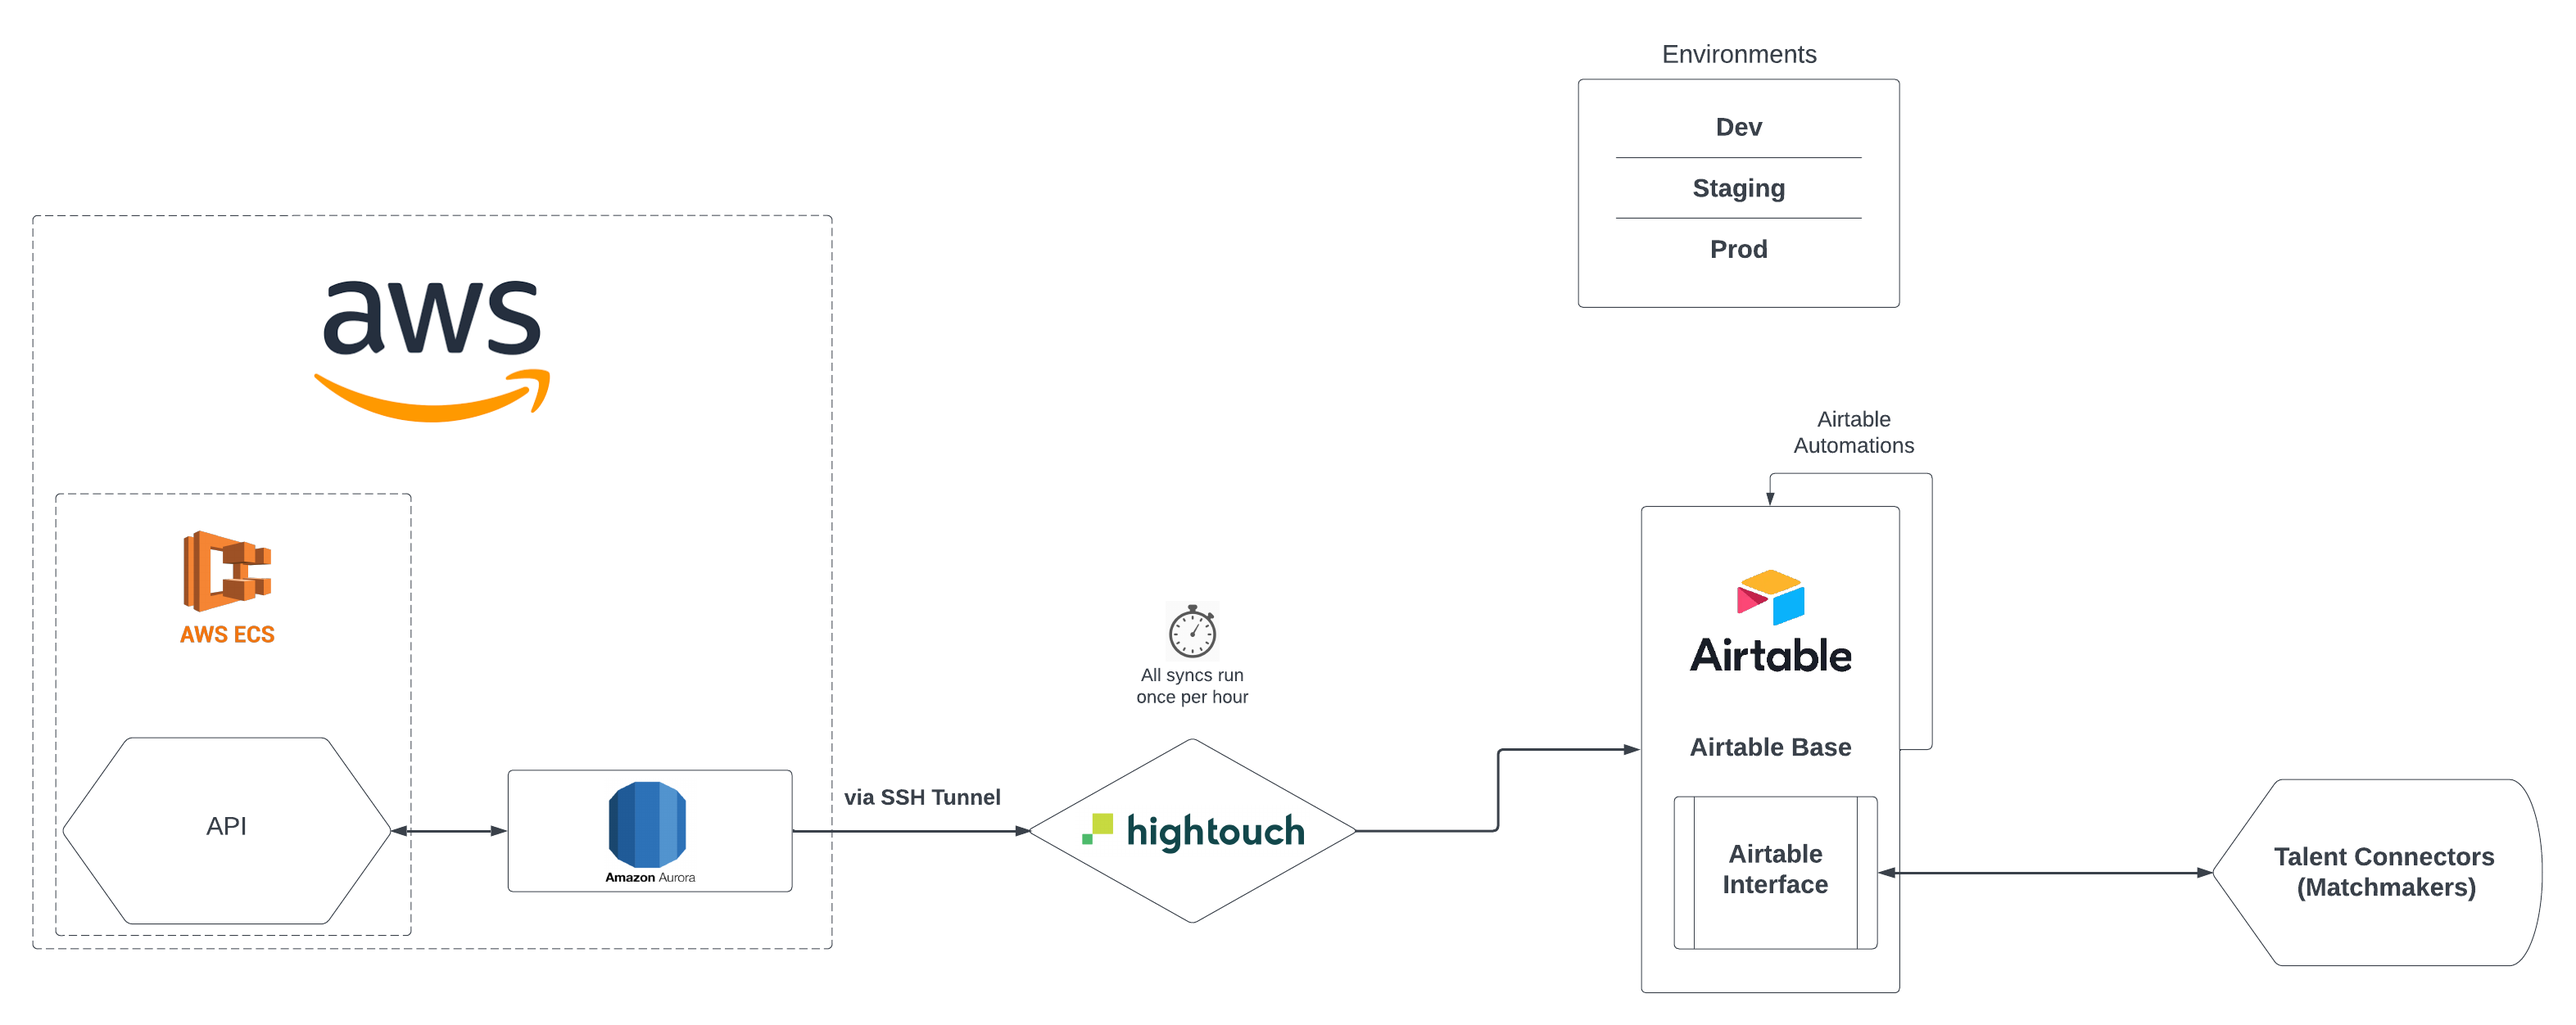
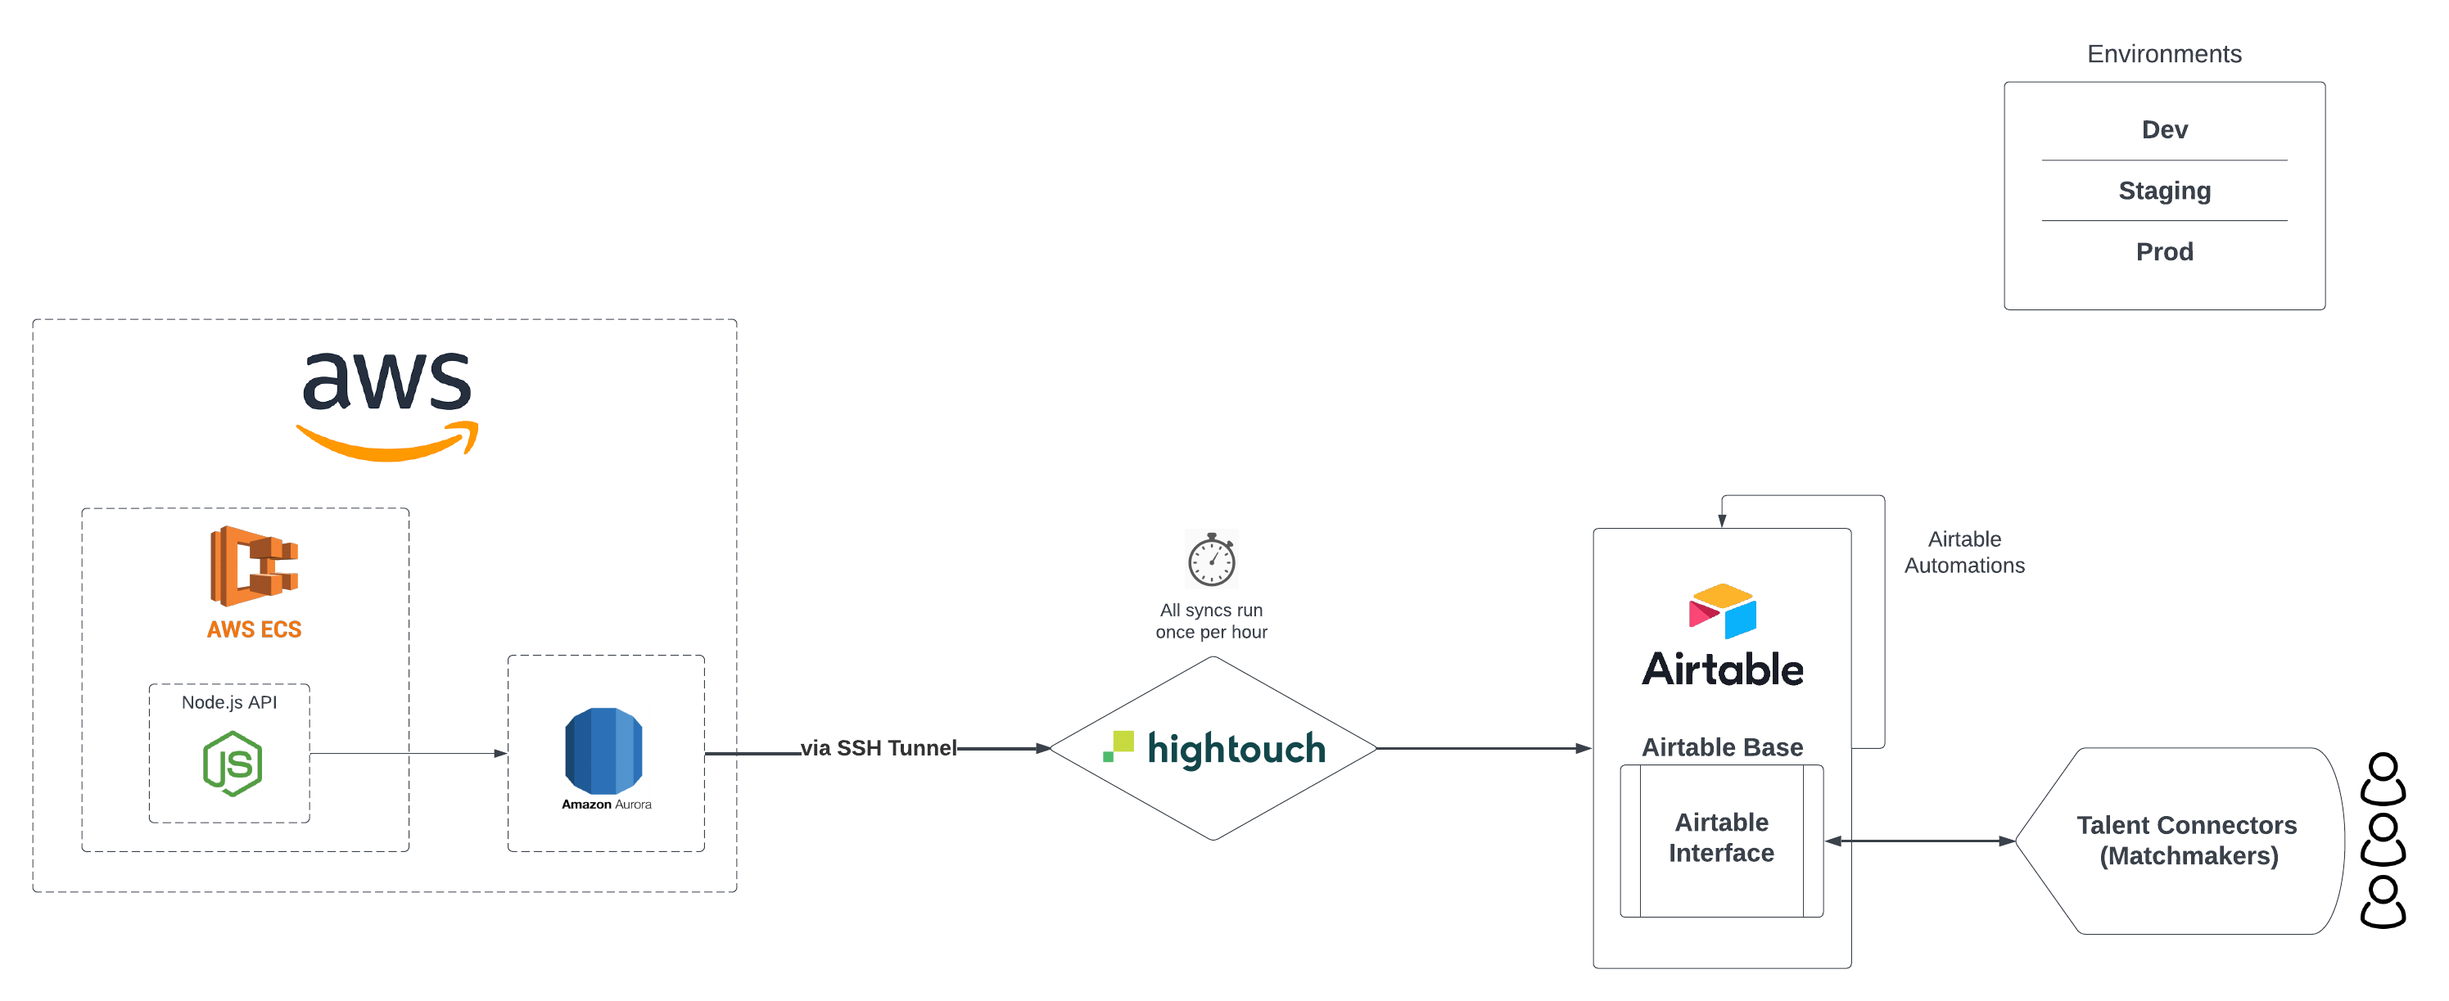
CAPP-1284 Backend arch diagram (#489)
* combine etl and api diagram into one

* add api diagram

* remove redundant images

* revert changes to data readme

* rename diagram

* Update README.md

* one more file rename i swear

diff --git a/README.md b/README.md
@@ -1,6 +1,6 @@
 # CommonApp
 
-The Common App API is used to support the Common App Application, a tool for matching tech talent to opportunities at non-profit, philanthropic, and government organizations.
+The Common App API is used to support Tekalo, a tool for matching tech talent to opportunities at non-profit, philanthropic, and government organizations. A diagram depicting the backend architecture can be found [here](./docs/media/tekalo_backend_architecture.png)
 
 ## Getting Started
 
@@ -91,6 +91,12 @@ pnpm container-install --save-dev pino-pretty # same as: pnpm install --save-dev
 ```
 
 If you do accidentally run `pnpm install` or otherwise mess up your node modules, deleting your `.pnpm-store` and `node_modules` folders should bring you back to a good state.
+
+## Architecture
+
+Below is a diagram depicting the high-level architecture of the API and its related services.
+
+![API Architecture Diagram](./docs/media/tekalo_api_architecture.png 'API Architecture')
 
 ## Database
 

diff --git a/docs/data_readme.md b/docs/data_readme.md
@@ -6,4 +6,4 @@ At it's core, Tekalo is about getting data about candidates and opportunities to
 
 Below is a diagram describing the tools we use for our ETL process. This entire pipeline is replicated for each of our three deployment environments (dev, staging, prod).
 
-![ETL Infrastructure Diagram](./media/tekalo_etl_infra.png)
+![ETL Infrastructure Diagram](./media/tekalo_etl_infra.png 'ETL Infrastructure')
